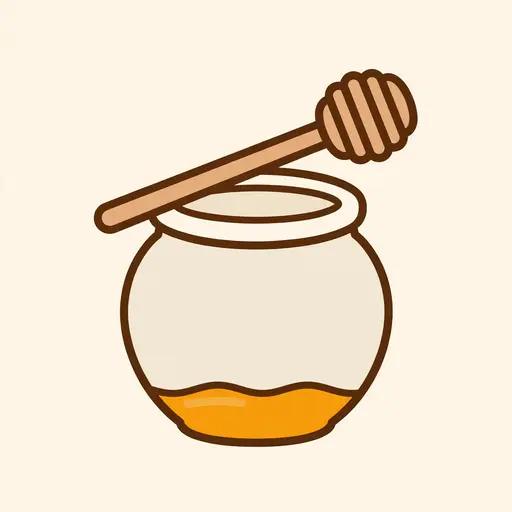
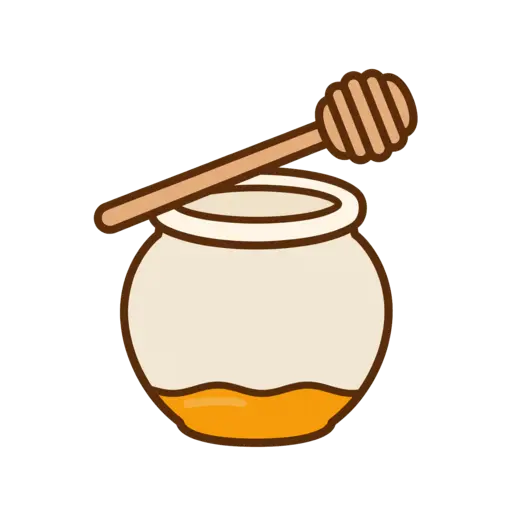
Mirror Heads-Up Honey v1.2 transparent pot fix (main bdec9da)
Pot images now have transparent backgrounds so the pot blends into both skins.
App files only; no personal data.

Claude-Session: https://claude.ai/code/session_01GgzjMWJwNPeqXEXJTdxV1m

diff --git a/index.html b/index.html
@@ -30,7 +30,7 @@ header{display:flex;align-items:center;gap:10px;min-height:52px}
 header b{display:block;font-size:17px}
 /* fixed square box: swapping the pot image never shifts the header */
 .pot{position:relative;flex:none;width:56px;height:56px}
-.pot img,.pot .honey{display:block;width:100%;height:100%;border-radius:12px}
+.pot img,.pot .honey{display:block;width:100%;height:100%}
 /* pot motion: used only by the motion script below */
 .pot .honey{position:absolute;inset:0;pointer-events:none}
 .pot .honey g{transition:transform .7s cubic-bezier(.3,1.9,.5,1)}
